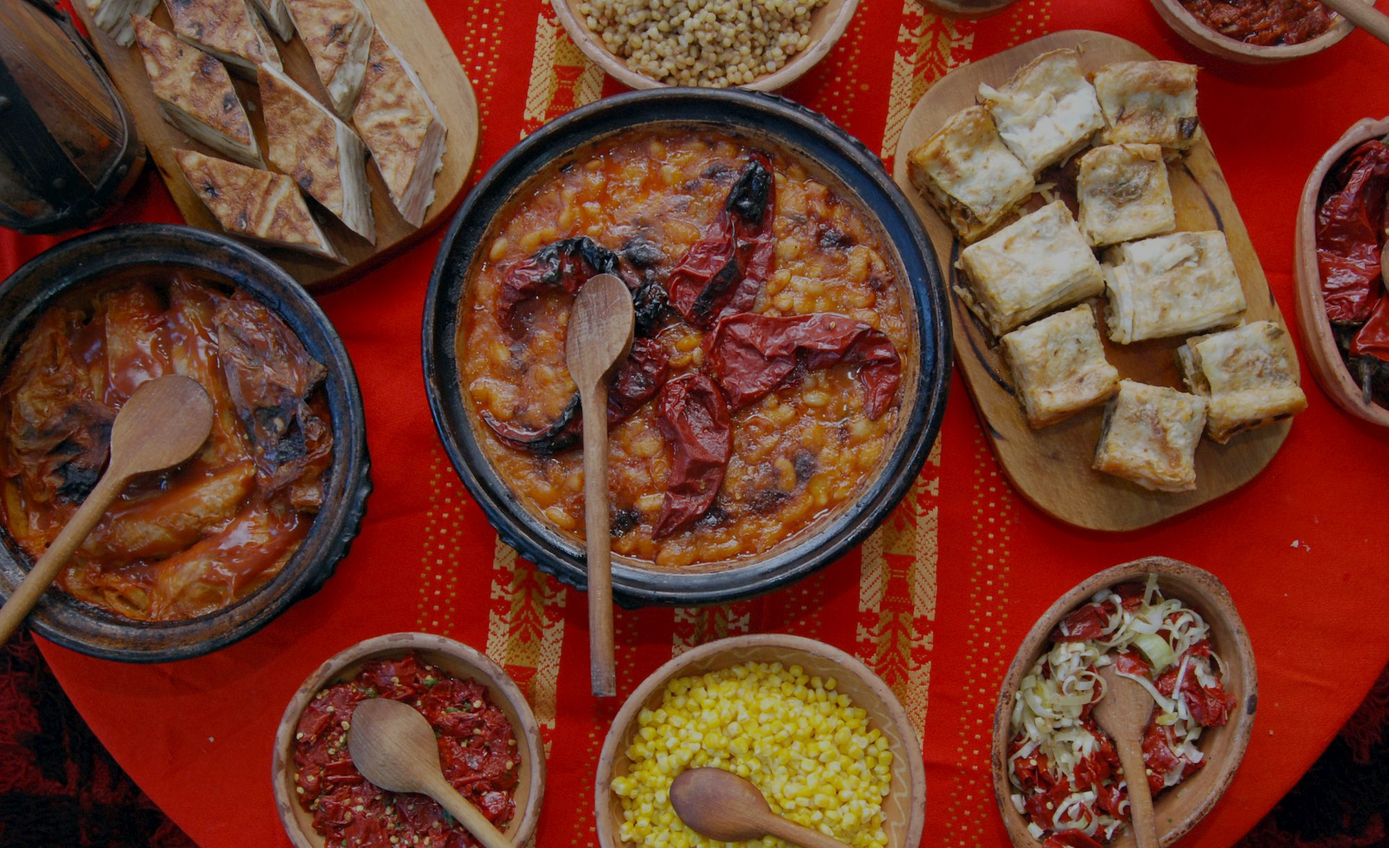
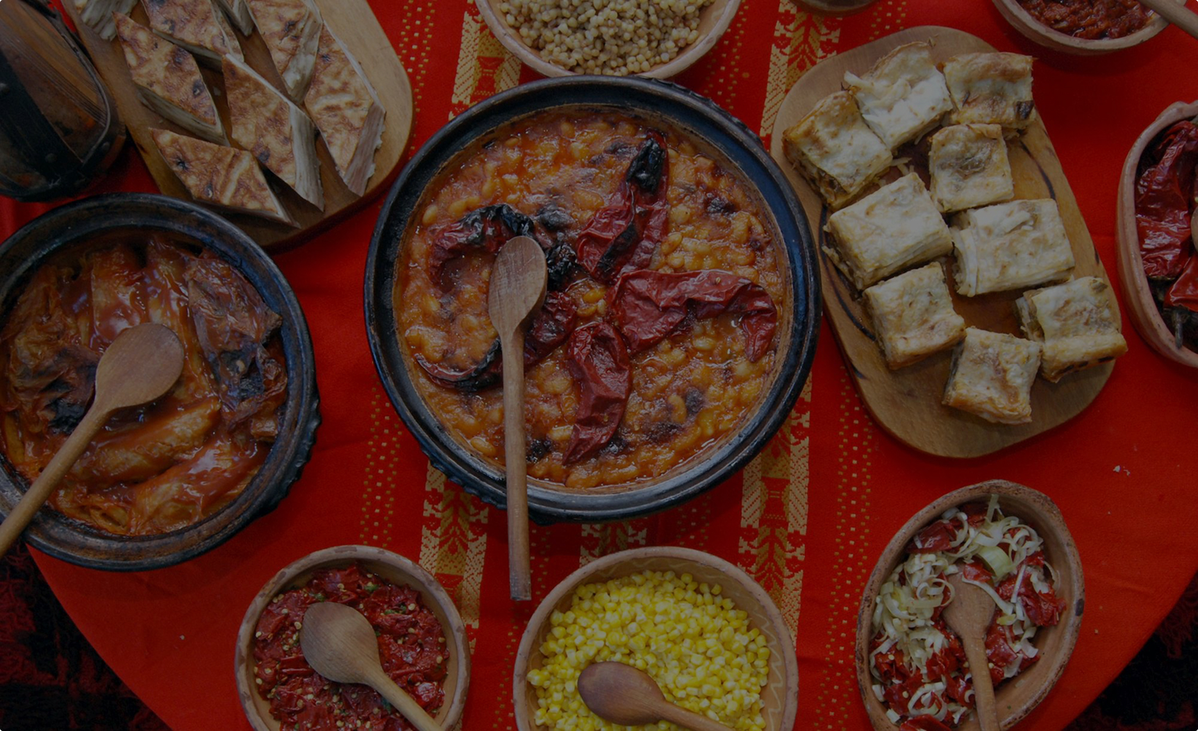
upd

diff --git a/src/components/profile/ProfileCard.tsx b/src/components/profile/ProfileCard.tsx
@@ -17,14 +17,18 @@ export const ProfileCard = ({ profile }: { profile: TPopulatedProfile }) => {
         alt={`${profile.familyName}'s photo`}
       />
       <div className="py-4">
+        <p className="text-sm font-semibold text-gray-600">
+          {profile.familyName} family
+        </p>
+
         <div className="text-md mb-1 font-bold text-neutral-800">
           {profile.title}
         </div>
-        <p className="text-sm text-gray-700">{profile.familyName} family</p>
+        <p className="text-md text-black">{profile.description}</p>
       </div>
 
       {!profileId && !isAdmin && (
-        <div className="py-2">
+        <div className="pb-2">
           <Link
             href={`/profile/${profile.id}`}
             className="rounded bg-primary-600 px-10 py-3 text-white"
@@ -33,38 +37,39 @@ export const ProfileCard = ({ profile }: { profile: TPopulatedProfile }) => {
           </Link>
         </div>
       )}
-      <div className="py-2 text-sm">
-        <p>
-          <span className="text-black">Description:</span> {profile.description}
-        </p>
-        <p>
-          <span className="text-black">Age:</span>{" "}
-          {moment().diff(moment(profile.dateOfBirth), "years")}
-        </p>
-        <p>
-          <span className="text-black">Maximum people:</span>{" "}
-          {profile.maximumPeople}
-        </p>
-        <p>
-          <span className="text-black">Smoking Allowed:</span>{" "}
-          {profile.isSmoking ? "Yes" : "No"}
-        </p>
-      </div>
-
-      <div className="py-2">
-        <span className="text-black">Languages:</span>
-        <div>
-          {profile.profileLanguages.map((l) => l.language.name).join(", ")}
+      <div className="text-md py-2">
+        <div className="text-sm">
+          <p>
+            <span className="text-black">Age:</span>{" "}
+            {moment().diff(moment(profile.dateOfBirth), "years")}
+          </p>
+          <p>
+            <span className="text-black">Maximum people:</span>{" "}
+            {profile.maximumPeople}
+          </p>
+          <p>
+            <span className="text-black">Smoking Allowed:</span>{" "}
+            {profile.isSmoking ? "Yes" : "No"}
+          </p>
         </div>
       </div>
-      <div className="py-2">
-        <span className="text-black">Drinks:</span>
-        <div>{profile.profileDrinks.map((d) => d.drink.name).join(", ")}</div>
-      </div>
-      <div className="py-2">
-        <span className="text-black">Food Types:</span>
-        <div>
-          {profile.profileFoodTypes.map((f) => f.foodType.name).join(", ")}
+
+      <div className="text-sm">
+        <div className="py-0.5">
+          <span className="text-black">Languages:</span>
+          <div>
+            {profile.profileLanguages.map((l) => l.language.name).join(", ")}
+          </div>
+        </div>
+        <div className="py-0.5">
+          <span className="text-black">Drinks:</span>
+          <div>{profile.profileDrinks.map((d) => d.drink.name).join(", ")}</div>
+        </div>
+        <div className="py-0.5">
+          <span className="text-black">Food Types:</span>
+          <div>
+            {profile.profileFoodTypes.map((f) => f.foodType.name).join(", ")}
+          </div>
         </div>
       </div>
     </div>

diff --git a/src/pages/profile/[id].tsx b/src/pages/profile/[id].tsx
@@ -1,6 +1,7 @@
 import { createServerSideHelpers } from "@trpc/react-query/server";
 import { type GetServerSidePropsContext } from "next";
 import { getServerSession } from "next-auth";
+import Head from "next/head";
 import { useRouter } from "next/router";
 import { useState } from "react";
 import SuperJSON from "superjson";
@@ -25,19 +26,30 @@ export default function ProfileView() {
   }
 
   return (
-    <main>
-      <div className="flex w-full content-center items-center justify-center p-4 lg:p-10">
-        <ProfileCard profile={profile} />
-      </div>
-      {!isSubmitted && (
-        <ReservationForm
-          profileId={profileId}
-          onSuccess={() => setIsSubmitted(true)}
+    <>
+      <Head>
+        <title>Make a reservation at {profile.familyName}</title>
+        <meta
+          name="description"
+          content="Traditional macedonian food with locals"
         />
-      )}
+        <link rel="icon" href="/favicon.ico" />
+      </Head>
 
-      {isSubmitted && <ReservationConfirmation />}
-    </main>
+      <main>
+        <div className="flex w-full content-center items-center justify-center p-4 lg:p-10">
+          <ProfileCard profile={profile} />
+        </div>
+        {!isSubmitted && (
+          <ReservationForm
+            profileId={profileId}
+            onSuccess={() => setIsSubmitted(true)}
+          />
+        )}
+
+        {isSubmitted && <ReservationConfirmation />}
+      </main>
+    </>
   );
 }
 

diff --git a/src/components/landing/Hero.tsx b/src/components/landing/Hero.tsx
@@ -15,18 +15,21 @@ export const Hero = () => {
       style={{ ...imageStyle }}
       className="h-[600px] w-full bg-cover bg-center bg-no-repeat"
     >
-      <div className="flex flex-col items-center p-20">
-        <h1
-          className="text-3xl text-white"
-          style={{ textShadow: "1px 1px black" }}
-        >
-          Meet with locals over dinner, learn about their culture and lifestyle.
+      <div className="relative z-10 flex h-full flex-col items-center justify-center px-6 text-center">
+        <h1 className="max-w-2xl text-4xl font-bold text-white drop-shadow-md sm:text-3xl">
+          Eat Dinner in a Local Macedonian Home{" "}
         </h1>
+
+        <p className="mt-4 max-w-xl text-lg text-white drop-shadow-sm sm:text-xl">
+          Share a home-cooked meal, hear real stories, and connect through
+          culture one dinner at a time.
+        </p>
+
         <Link
-          className="my-10 rounded bg-primary-600 px-4 py-2 text-lg text-white shadow-lg"
           href="/search"
+          className="text-md mt-8 rounded bg-primary-600 px-6 py-2 font-semibold text-white shadow-md transition-transform hover:scale-105"
         >
-          Explore locals
+          Find Your Host
         </Link>
       </div>
     </div>

diff --git a/src/components/profile/ProfileSearchForm.tsx b/src/components/profile/ProfileSearchForm.tsx
@@ -43,7 +43,7 @@ export const ProfileSearchForm = ({
   return (
     <form
       onSubmit={handleSubmit(onSubmit)}
-      className="items-top mx-2 my-5 flex flex-col justify-center gap-4 rounded-lg p-4 py-2 lg:flex-row"
+      className="items-top mx-2 my-5 flex flex-col justify-center gap-2 rounded-lg p-4 py-3 lg:flex-row lg:gap-4"
     >
       {/* Search Bar */}
       <Controller

diff --git a/src/components/generic/Input.tsx b/src/components/generic/Input.tsx
@@ -22,7 +22,7 @@ export const Input = ({
       value={value}
       onChange={(e) => onChange(e.target.value)}
       className={classnames(
-        "rounded border-gray-300 bg-gray-50 p-2.5 text-sm dark:border-gray-600",
+        "rounded border-gray-300 bg-gray-50 p-2 text-sm lg:p-2.5 dark:border-gray-600",
         classNames,
       )}
       placeholder={placeholder}

diff --git a/src/components/generic/Select.tsx b/src/components/generic/Select.tsx
@@ -16,7 +16,7 @@ export const Select = ({
     <select
       {...props}
       onChange={(e) => onChange(e.target.value)}
-      className="w-full rounded border lg:w-auto"
+      className="h-8 w-full rounded border lg:h-12 lg:w-auto"
       value={value}
     >
       <option value={""} disabled selected>

diff --git a/src/components/landing/MeetTheMacedoniansIntro.tsx b/src/components/landing/MeetTheMacedoniansIntro.tsx
@@ -39,7 +39,7 @@ export const MeetTheMacedoniansIntro = () => {
           width={400}
           height={300}
           className="rounded shadow-lg"
-          src="/food.jpg"
+          src="/macedonians.jpg"
         />
       </div>
     </section>
